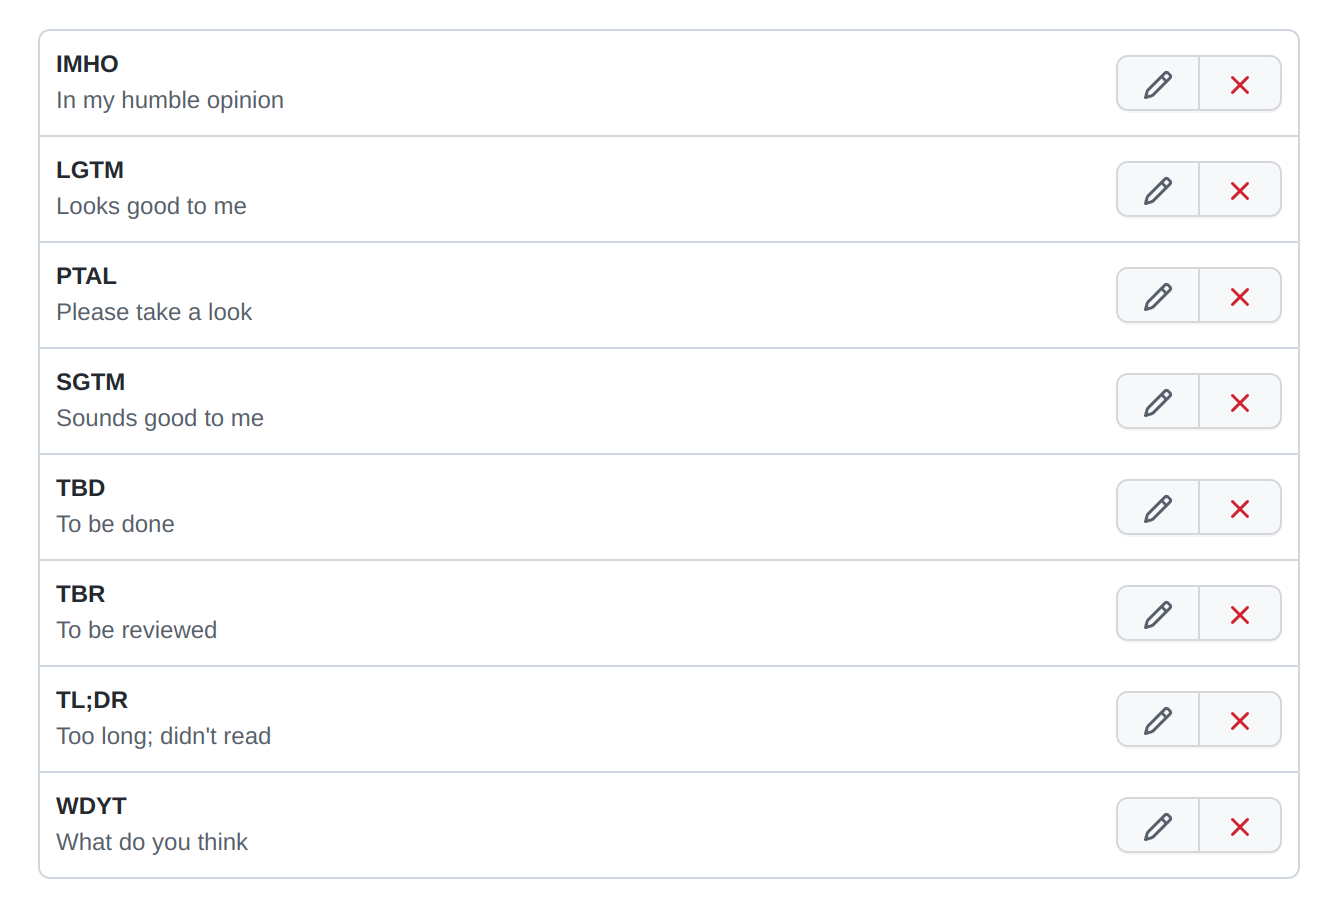
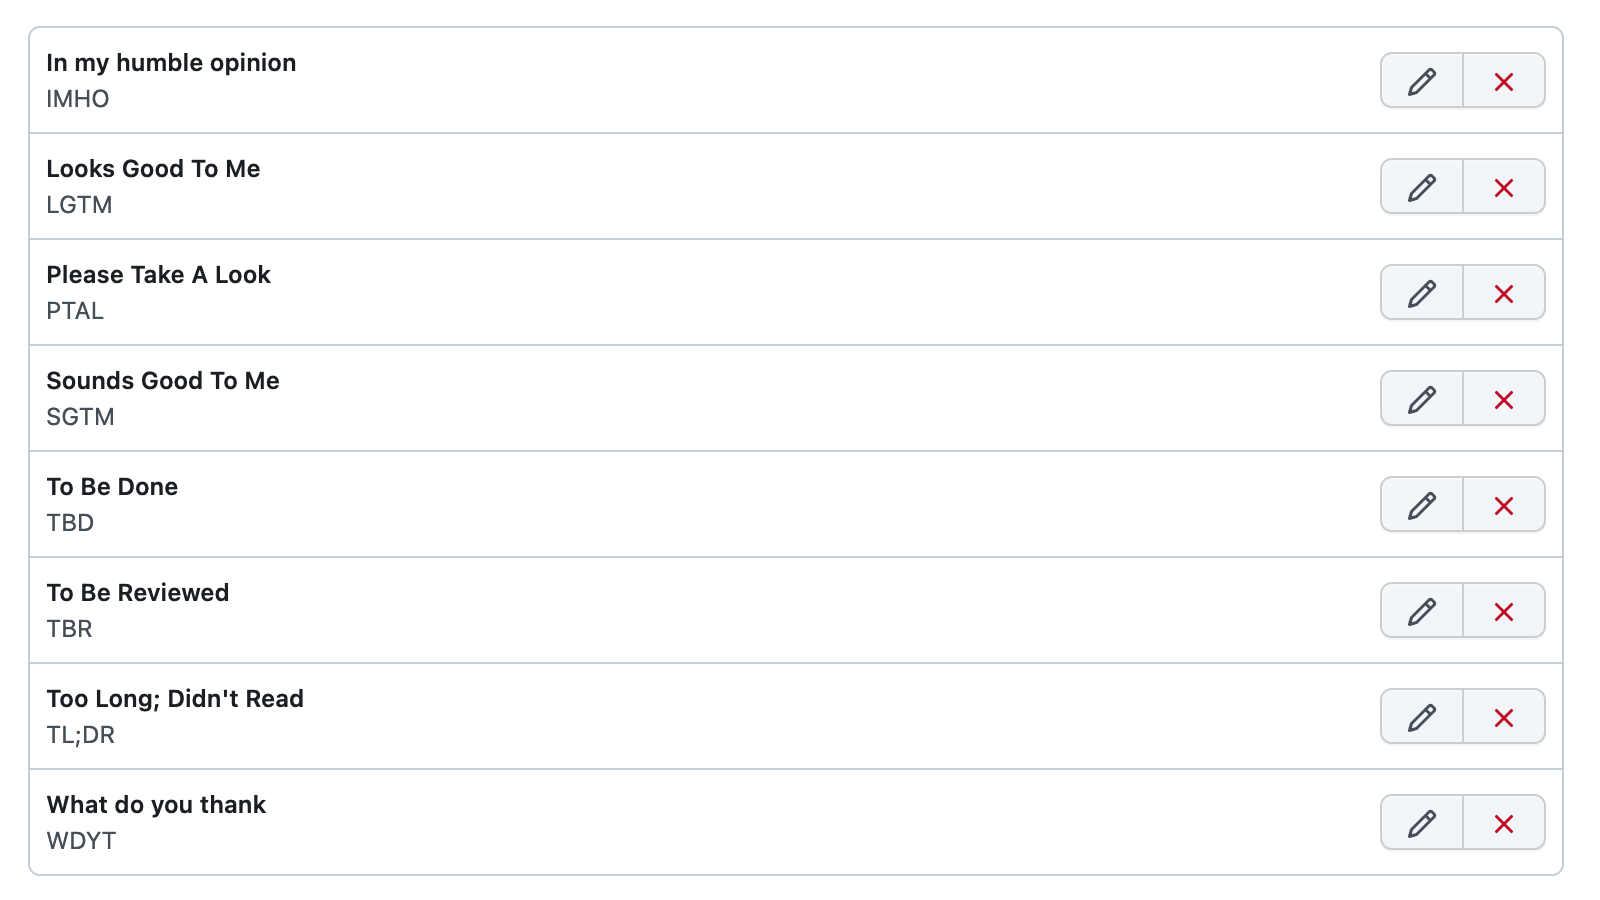
refactor: swap title and body (#1)

diff --git a/index.js b/index.js
@@ -1,12 +1,12 @@
 let replies = new Map([
-    ["IMHO", "In my humble opinion"],
-    ["LGTM", "Looks good to me"],
-    ["PTAL", "Please take a look"],
-    ["SGTM", "Sounds good to me"],
-    ["TBD", "To be done"],
-    ["TBR", "To be reviewed"],
-    ["TL;DR", "Too long; didn't read"],
-    ["WDYT", "What do you think"]
+    ["In my humble opinion", "IMHO"],
+    ["Looks good to me", "LGTM"],
+    ["Please take a look", "PTAL"],
+    ["Sounds good to me", "SGTM"],
+    ["To be done", "TBD"],
+    ["To be reviewed", "TBR"],
+    ["Too long; didn't read", "TL;DR"],
+    ["What do you think", "WDYT"]
 ]);
 
 let authenticity_token = document.querySelector("#new_saved_reply > input[type=hidden]").value;
